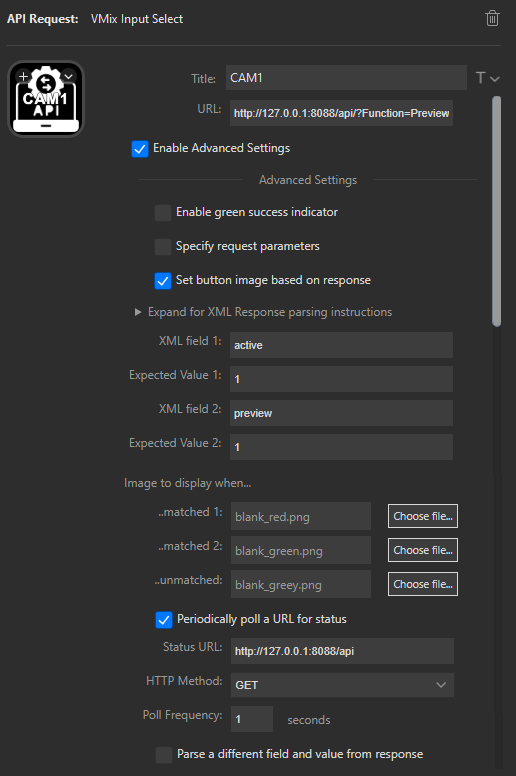
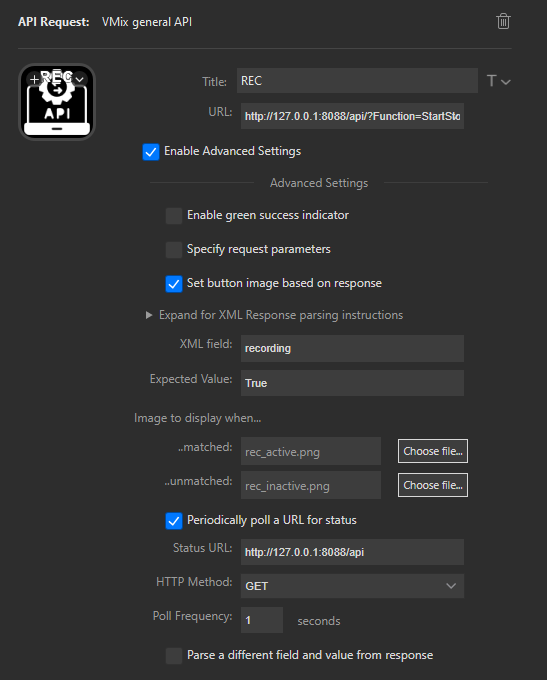
Update readme

diff --git a/README.md b/README.md
@@ -18,8 +18,10 @@ Based on https://github.com/mjbnz/streamdeck-api-request
 
 For this example we will create a button which starts/stops recording and shows the recording status.
 
+![Streamdeck plugin settings](apibutton1.png)
+
 * See https://vmixapi.com/ for list of the API functions available
-* Drag the "API Request" plugin onto one of the buttons in the Streamdeck software.
+* Drag the "VMix general API" plugin onto one of the buttons in the Streamdeck software.
 * Set the title to give the Streamdeck button caption (in this example, `REC`). Use the [T] menu next to the Title to position the caption and set the font.
 * Set the URL option to `http://127.0.0.1:8088/api/Function=StartStopRecording` (replace the `Function=` parameter with desired API command)
 * Tick the [Enable Advanced Settings] box.
@@ -34,6 +36,10 @@ For this example we will create a button which starts/stops recording and shows 
 * Set [Poll Frequency] to `1 second`.
 
 If you have VMix running, the Streamdeck button should now show "REC" with a grey or red icon depending on if recording is active or not. Pressing the button (or using the VMix UI) should change the state.
+
+Copy and paste this button to create other similar buttons without having to enter all the setup info again.
+
+![Streamdeck plugin example setup](example.jpg)
 
 > If VMix is not running the button will show a yellow exclamation.
 
